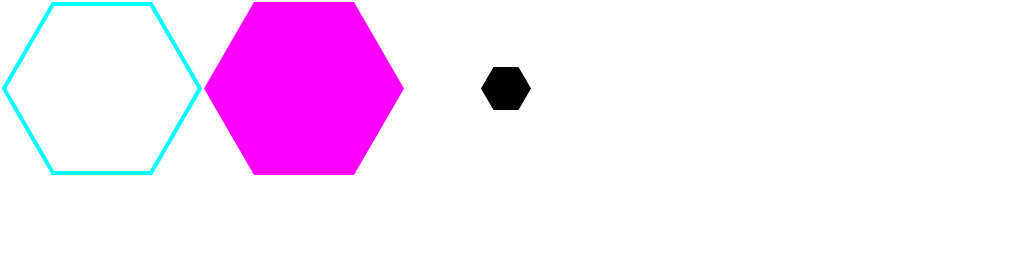
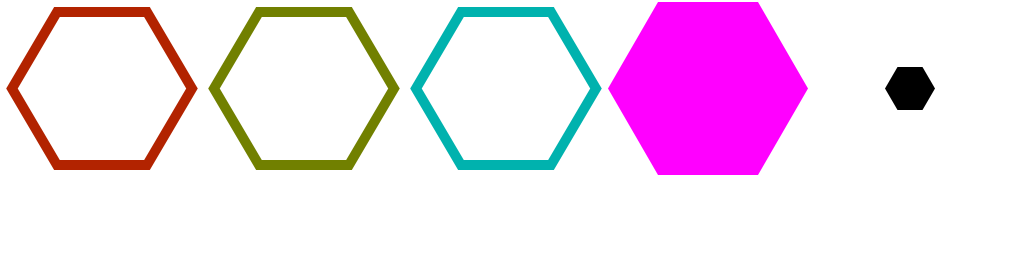
Selection Logik implementiert
Units können nun mit STRG + Klick gespawnt werden

Changed region(s): [[0.0, 0.0, 0.8125, 0.6875], [0.8438, 0.25, 0.9375, 0.4375], [0.4688, 0.25, 0.5312, 0.4375]]

diff --git a/core/src/de/gymwkb/civ/game/HumanPlayerController.java b/core/src/de/gymwkb/civ/game/HumanPlayerController.java
@@ -1,42 +1,74 @@
 package de.gymwkb.civ.game;
 
+import com.badlogic.gdx.Gdx;
+import com.badlogic.gdx.Input.Keys;
+
 import de.gymwkb.civ.map.Hex;
-import de.gymwkb.civ.map.HexMap.Cell;
+import de.gymwkb.civ.map.HexMap.Cell.ILayer;
 import de.gymwkb.civ.map.HexMap.LayerType;
-import de.gymwkb.civ.map.Selection;
+import de.gymwkb.civ.registry.Hexture;
 import de.gymwkb.civ.registry.UnitType;
 
 /**
  * Processes inputs before sending them to the game controller.
  */
 public class HumanPlayerController extends PlayerController {
-    private Hex selection;
+    private Hex selectedUnit;
+    private Hex secondaryHex;
+    
+    public static final ILayer SELECTION_UNIT = () -> Hexture.SELECTION_UNIT;
+    public static final ILayer SELECTION_MOVE = () -> Hexture.SELECTION_MOVE;
+    public static final ILayer SELECTION_ATTACK = () -> Hexture.SELECTION_ATTACK;
     
     public HumanPlayerController(GameController game, int playerId) {
         super(game, playerId);
         game.spawnUnit(player.id, new Hex(0, 0, 0), UnitType.TEST);
     }
     
-    public Hex getSelectedHex() {
-        return selection;
+    public Hex getSelectedUnit() {
+        return selectedUnit;
     }
     
-    public void setSelectedHex(Hex hex) {
-        if(hex != null && !hex.equals(selection) && map.contains(hex)) {
-            if(selection == null) {
-                map.getCell(hex).setLayer(LayerType.FOREGROUND, new Selection());
-            } else {           
-                Cell last = map.getCell(selection);
-                map.getCell(hex).setLayer(LayerType.FOREGROUND, last.getLayer(LayerType.FOREGROUND));
-                last.setLayer(LayerType.FOREGROUND, null);
+    public void selectUnit(Hex hex) {
+        if(hex == null) {
+            map.getCell(selectedUnit).setLayer(LayerType.FOREGROUND, null);
+            selectedUnit = null;
+            map.getCell(secondaryHex).setLayer(LayerType.FOREGROUND, null);
+            secondaryHex = null;
+        } else if(hex != null && !hex.equals(selectedUnit)) {
+            map.getCell(hex).setLayer(LayerType.FOREGROUND, SELECTION_UNIT);
+            if(selectedUnit != null) {
+                map.getCell(selectedUnit).setLayer(LayerType.FOREGROUND, null);
             }
-            selection = hex;
+            selectedUnit = hex;
         }
     }
     
-    public void onHexClicked(Hex hex) {
-        if(hex != null && map.contains(hex) && map.getUnit(hex) != null)
-            setSelectedHex(hex);
+    public void onHexClicked(Hex hex, int button) {
+        if(hex == null || !map.contains(hex))
+            return;
+        
+        if(map.getUnit(hex) != null) {
+            selectUnit(hex);
+        } else if(Gdx.input.isKeyPressed(Keys.CONTROL_LEFT)) {
+            game.spawnUnit(player.id, hex, UnitType.TEST);
+        } else if(selectedUnit != null) {
+            selectUnit(null);
+        }
+    }
+    
+    public void onHexHover(Hex hex) {
+        if(hex == null || !map.contains(hex))
+            return;
+        
+        if(selectedUnit != null && !hex.equals(selectedUnit)) {
+            ILayer sel = map.getUnit(hex) == null ? SELECTION_MOVE : SELECTION_ATTACK;
+            map.getCell(hex).setLayer(LayerType.FOREGROUND, sel);
+            if(secondaryHex != null) {
+                map.getCell(secondaryHex).setLayer(LayerType.FOREGROUND, null);
+            }
+            secondaryHex = hex;
+        }
     }
     
 }

diff --git a/core/src/de/gymwkb/civ/input/MapInputProcessor.java b/core/src/de/gymwkb/civ/input/MapInputProcessor.java
@@ -6,6 +6,7 @@ import com.badlogic.gdx.math.Vector2;
 import com.badlogic.gdx.math.Vector3;
 
 import de.gymwkb.civ.game.HumanPlayerController;
+import de.gymwkb.civ.map.Hex;
 import de.gymwkb.civ.map.HexMapLayout;
 
 public class MapInputProcessor extends InputAdapter {
@@ -14,6 +15,7 @@ public class MapInputProcessor extends InputAdapter {
     private OrthographicCamera camera;
     private final Vector3 mousePos3 = new Vector3();
     private final Vector2 mousePos2 = new Vector2();
+    private Hex hoverHex;
     
     public MapInputProcessor(HumanPlayerController ctrl, HexMapLayout layout, OrthographicCamera camera) {
         this.controller = ctrl;
@@ -22,8 +24,8 @@ public class MapInputProcessor extends InputAdapter {
     }
     
     @Override
-    public boolean touchDown(int x, int y, int pointer, int button) {
-        mousePos3.set(x, y, 0);
+    public boolean touchDown(int screenX, int screenY, int pointer, int button) {
+        mousePos3.set(screenX, screenY, 0);
         return false;
     }
     
@@ -32,8 +34,21 @@ public class MapInputProcessor extends InputAdapter {
         if(screenX / 10 == ((int) mousePos3.x) / 10 && screenY / 10 == ((int) mousePos3.y) / 10) {
             camera.unproject(mousePos3);
             mousePos2.set(mousePos3.x, mousePos3.y);
-            controller.onHexClicked(layout.cartesianToHex(mousePos2));
+            controller.onHexClicked(layout.cartesianToHex(mousePos2), button);
             return true;
+        }
+        return false;
+    }
+    
+    @Override
+    public boolean mouseMoved(int screenX, int screenY) {
+        mousePos3.set(screenX, screenY, 0);
+        camera.unproject(mousePos3);
+        mousePos2.set(mousePos3.x, mousePos3.y);
+        Hex hex = layout.cartesianToHex(mousePos2);
+        if(hoverHex == null || !hex.equals(hoverHex)) {
+            controller.onHexHover(hex);
+            hoverHex = hex;
         }
         return false;
     }

diff --git a/core/src/de/gymwkb/civ/registry/Hexture.java b/core/src/de/gymwkb/civ/registry/Hexture.java
@@ -8,7 +8,9 @@ package de.gymwkb.civ.registry;
  */
 public enum Hexture {
     //FOREGROUND
-    SELECTION,
+    SELECTION_UNIT,
+    SELECTION_MOVE,
+    SELECTION_ATTACK,
     //TERRAIN
     TERRAIN_DEFAULT,
     //UNITS

diff --git a/core/src/de/gymwkb/civ/map/Hex.java b/core/src/de/gymwkb/civ/map/Hex.java
@@ -41,4 +41,9 @@ public class Hex {
             return false;
         return true;
     }
+    
+    @Override
+    public String toString() {
+        return String.format("(%d; %d; %d)", q, r, s);
+    }
 }
